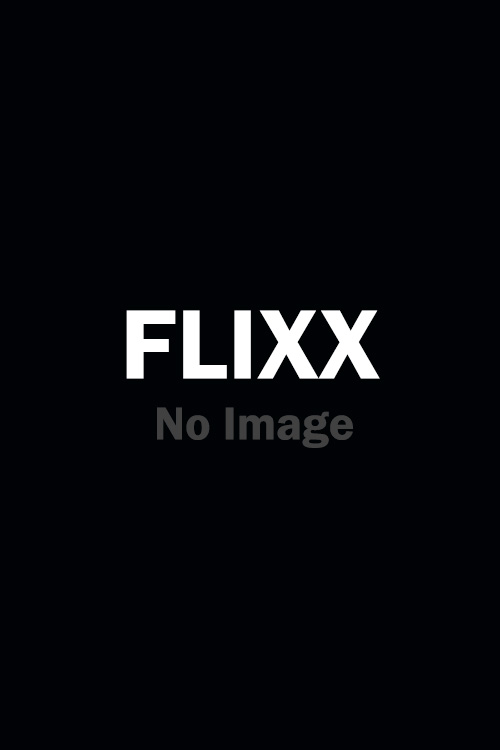
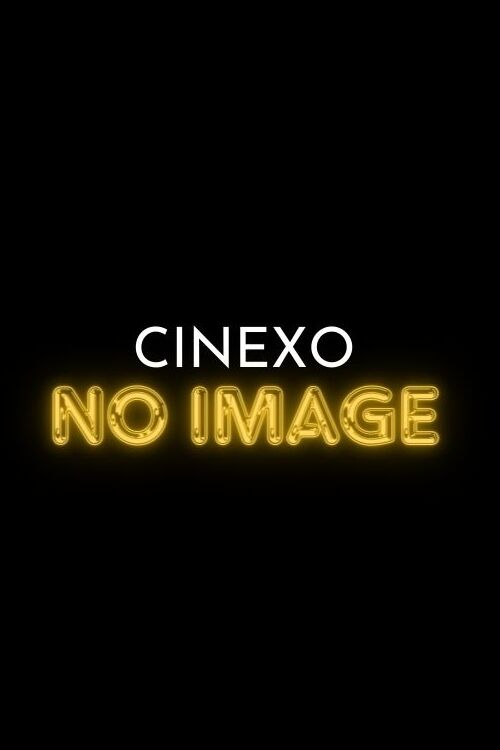
Final Draft

Changed region(s): [[0.06, 0.3987, 0.9, 0.6133]]

diff --git a/js/script.js b/js/script.js
@@ -251,7 +251,11 @@ async function search() {
   global.search.term = urlParams.get("search-term");
 
   if (global.search.term !== "" && global.search.term !== null) {
-    const { results, total_pages, page } = await searchAPIData();
+    const { results, total_pages, page, total_results } = await searchAPIData();
+
+    global.search.page = page;
+    global.search.totalPages = total_pages;
+    global.search.totalResults = total_results;
 
     if (results.length === 0) {
       showAlert("No results found");
@@ -270,6 +274,9 @@ function displaySearchResults(results) {
   // Clear previous search results
   const searchContainer = document.querySelector("#search-results");
   searchContainer.innerHTML = "";
+
+  document.querySelector("#search-results-heading").innerHTML = "";
+  document.querySelector("#pagination").innerHTML = "";
 
   results.forEach((result) => {
     const div = document.createElement("div");
@@ -305,7 +312,51 @@ function displaySearchResults(results) {
         </div>
       `;
 
+    document.querySelector(
+      "#search-results-heading"
+    ).innerHTML = `<h2>${results.length} of ${global.search.totalResults} Results for ${global.search.term}</h2>`;
+
     searchContainer.appendChild(div);
+  });
+
+  displayPagination();
+}
+
+// Display Pagination
+function displayPagination() {
+  const div = document.createElement("div");
+  div.classList.add("pagination");
+
+  div.innerHTML = `
+  <button class="btn btn-primary" id="prev">Prev</button>
+  <button class="btn btn-primary" id="next">Next</button>
+  <div class="page-counter">Page ${global.search.page} of ${global.search.totalPages}</div>
+  `;
+
+  document.querySelector("#pagination").appendChild(div);
+
+  //   Disable prev button if on first page
+  if (global.search.page === 1) {
+    document.querySelector("#prev").disabled = true;
+  }
+
+  //   Disable next button if on last page
+  if (global.search.page === global.search.totalPages) {
+    document.querySelector("#next").disabled = true;
+  }
+
+  //   Next Page
+  document.querySelector("#next").addEventListener("click", async () => {
+    global.search.page++;
+    const { results, total_pages } = await searchAPIData();
+    displaySearchResults(results);
+  });
+
+  //   Previous Page
+  document.querySelector("#prev").addEventListener("click", async () => {
+    global.search.page--;
+    const { results, total_pages } = await searchAPIData();
+    displaySearchResults(results);
   });
 }
 
@@ -386,7 +437,7 @@ async function searchAPIData() {
   showSpinner();
 
   const response = await fetch(
-    `${API_URL}search/${global.search.type}?api_key=${API_KEY}&language=en-US&query=${global.search.term}`
+    `${API_URL}search/${global.search.type}?api_key=${API_KEY}&language=en-US&query=${global.search.term}&page=${global.search.page}`
   );
 
   const data = await response.json();

diff --git a/search.html b/search.html
@@ -14,12 +14,12 @@
     <link rel="stylesheet" href="css/style.css" />
     <link rel="stylesheet" href="css/spinner.css" />
     <script src="js/script.js" defer></script>
-    <title>Flixx | Search Movies & Shows</title>
+    <title>Cinexo | Search Movies & Shows</title>
   </head>
   <body>
     <header class="main-header">
       <div class="container">
-        <div class="logo"><a href="/">FLIXX</a></div>
+        <div class="logo"><a href="/">Cinexo</a></div>
         <nav>
           <ul>
             <li>
@@ -63,19 +63,13 @@
     <section id="search-results-wrapper" class="container">
       <heading id="search-results-heading"></heading>
       <div id="search-results" class="grid"></div>
-      <div id="pagination">
-        <div class="pagination">
-          <button class="btn btn-primary" id="prev">Prev</button>
-          <button class="btn btn-primary" id="next">Next</button>
-          <div class="page-counter">Page 1 of 5</div>
-        </div>
-      </div>
+      <div id="pagination"></div>
     </section>
 
     <!-- Footer -->
     <footer class="main-footer">
       <div class="container">
-        <div class="logo"><span>FLIXX</span></div>
+        <div class="logo"><span>Cinexo</span></div>
         <div class="social-links">
           <a href="https://www.facebook.com" target="_blank"
             ><i class="fab fa-facebook-f"></i

diff --git a/css/style.css b/css/style.css
@@ -8,11 +8,11 @@
 
 :root {
   --color-primary: #020d18;
-  --color-secondary: #f1c40f;
+  --color-secondary: #5f9e8e;
 }
 
 body {
-  font-family: 'Poppins', sans-serif;
+  font-family: "Poppins", sans-serif;
   font-size: 16px;
   background: var(--color-primary);
   color: #fff;
@@ -238,9 +238,6 @@ section h2 {
   margin-top: 20px;
 }
 
-.details-bottom {
-}
-
 .details-bottom li {
   margin: 15px 0;
   padding-bottom: 8px;
@@ -281,7 +278,7 @@ section h2 {
   margin-top: 10px;
 }
 
-.search .container form input[type='text'] {
+.search .container form input[type="text"] {
   flex: 6;
   width: 100%;
   height: 50px;
@@ -293,11 +290,11 @@ section h2 {
   color: #fff;
 }
 
-.search .container form input[type='text']::placeholder {
+.search .container form input[type="text"]::placeholder {
   color: #fff;
 }
 
-.search .container form input[type='text']:focus {
+.search .container form input[type="text"]:focus {
   outline: none;
 }
 

diff --git a/tv-details.html b/tv-details.html
@@ -14,12 +14,12 @@
     <link rel="stylesheet" href="css/style.css" />
     <link rel="stylesheet" href="css/spinner.css" />
     <script src="js/script.js" defer></script>
-    <title>Flixx | Show Details</title>
+    <title>Cinexo | Show Details</title>
   </head>
   <body>
     <header class="main-header">
       <div class="container">
-        <div class="logo"><a href="/">FLIXX</a></div>
+        <div class="logo"><a href="/">Cinexo</a></div>
         <nav>
           <ul>
             <li>
@@ -45,7 +45,7 @@
     <!-- Footer -->
     <footer class="main-footer">
       <div class="container">
-        <div class="logo"><span>FLIXX</span></div>
+        <div class="logo"><span>Cinexo</span></div>
         <div class="social-links">
           <a href="https://www.facebook.com" target="_blank"
             ><i class="fab fa-facebook-f"></i

diff --git a/shows.html b/shows.html
@@ -14,12 +14,12 @@
     <link rel="stylesheet" href="css/style.css" />
     <link rel="stylesheet" href="css/spinner.css" />
     <script src="js/script.js" defer></script>
-    <title>Flixx</title>
+    <title>Cinexo</title>
   </head>
   <body>
     <header class="main-header">
       <div class="container">
-        <div class="logo"><a href="/">FLIXX</a></div>
+        <div class="logo"><a href="/">Cinexo</a></div>
         <nav>
           <ul>
             <li>
@@ -42,7 +42,7 @@
     <!-- Footer -->
     <footer class="main-footer">
       <div class="container">
-        <div class="logo"><span>FLIXX</span></div>
+        <div class="logo"><span>Cinexo</span></div>
         <div class="social-links">
           <a href="https://www.facebook.com" target="_blank"
             ><i class="fab fa-facebook-f"></i

diff --git a/index.html b/index.html
@@ -16,12 +16,12 @@
     <link rel="stylesheet" href="css/spinner.css" />
     <script src="lib/swiper.js"></script>
     <script src="js/script.js" defer></script>
-    <title>Flixx</title>
+    <title>Cinexo</title>
   </head>
   <body>
     <header class="main-header">
       <div class="container">
-        <div class="logo"><a href="/">FLIXX</a></div>
+        <div class="logo"><a href="/">Cinexo</a></div>
         <nav>
           <ul>
             <li>
@@ -79,7 +79,7 @@
     <!-- Footer -->
     <footer class="main-footer">
       <div class="container">
-        <div class="logo"><span>FLIXX</span></div>
+        <div class="logo"><span>Cinexo</span></div>
         <div class="social-links">
           <a href="https://www.facebook.com" target="_blank"
             ><i class="fab fa-facebook-f"></i

diff --git a/movie-details.html b/movie-details.html
@@ -19,7 +19,7 @@
   <body>
     <header class="main-header">
       <div class="container">
-        <div class="logo"><a href="/">FLIXX</a></div>
+        <div class="logo"><a href="/">Cinexo</a></div>
         <nav>
           <ul>
             <li>
@@ -45,7 +45,7 @@
     <!-- Footer -->
     <footer class="main-footer">
       <div class="container">
-        <div class="logo"><span>FLIXX</span></div>
+        <div class="logo"><span>Cinexo</span></div>
         <div class="social-links">
           <a href="https://www.facebook.com" target="_blank"
             ><i class="fab fa-facebook-f"></i
